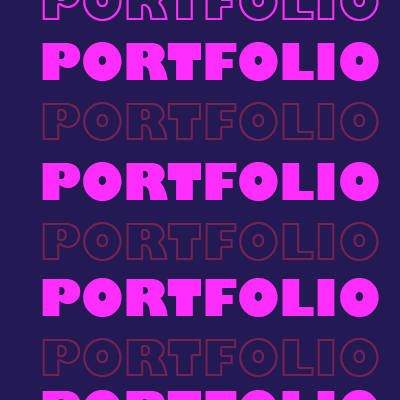
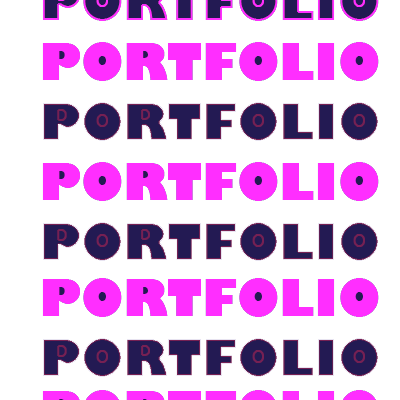
all fine : twitter:og fixed, contrast fixed > ready for upload:100%

diff --git a/public/about.html b/public/about.html
@@ -17,16 +17,20 @@
 
     <meta name="twitter:card" content="summary_large_image" />
     <meta name="twitter:creator" content="@stilkinging" />
-    <meta name="twitter:image:alt" content="a banner for Chukweubuka stanley" />
-    <meta name="twitter:image" content="https://chukwuebukastanley.com/assets/images/social media-bg.png">
+    <meta property="twitter:image" content="https://chukwuebukastanley.com/assets/images/socialmedia-banner.jpg" />
+    <!-- <meta name="twitter:image:alt" content="a banner for Chukweubuka stanley" /> -->
     <meta property="og:url" content="https://chukwuebukastanley.com/about" />
     <meta property="og:title" content="CHUKWUEBUKA STANLEY" />
     <meta property="og:description" content="more information about Ebuka and his interests " />
-    <meta property="og:image" content="https://chukwuebukastanley.com/assets/images/social media-bg.png" />
-    <meta property="og:image:width" content="1200" />
-    <meta property="og:image:height" content="630" />
+    <meta property="og:image" content="https://chukwuebukastanley.com/assets/images/socialmedia-banner.jpg" />
+    <meta property="og:image:width" content="400" />
+    <meta property="og:image:height" content="400" />
+    <!-- for twitter and whatsapp -->
+    <!-- <meta property="og:image" content="https://chukwuebukastanley.com/assets/images/social-media-bgx400.png" />
+    <meta property="og:image:width" content="400" />
+    <meta property="og:image:height" content="400" />  -->
   </head>
-  <body>
+  <body> 
     <nav class="navbar navbar-expand-lg navbar-light text-white mb-md-5 black-bg">
         <div class="container-fluid px-lg-5">
             <button class="navbar-toggler" type="button" data-bs-toggle="collapse" data-bs-target="#navbarSupportedContent" aria-controls="navbarSupportedContent" aria-expanded="false" aria-label="Toggle navigation">
@@ -36,7 +40,7 @@
               </button>
           <a class="navbar-brand text-white" href="./index.html"> Ebuka</a>
       
-          <div class="collapse navbar-collapse" id="navbarSupportedContent"  type="button" data-bs-toggle="collapse" data-bs-target="#navbarSupportedContent">
+          <div class="collapse navbar-collapse" id="navbarSupportedContent" >
             <ul class="navbar-nav ms-lg-auto mb-2 py-2 mb-lg-0">
               <li class="nav-item">
                 <a class="nav-link d-block h5" aria-current="page" href="./index.html">.Home</a>
@@ -55,7 +59,7 @@
         </div>
       </nav>
     <div class="jumbotron d-md-flex justify-content-between container align-items-center" >
-        <div class="about__image-prev position-relative order-md-2 text-center col-md-4 mb-5 mx-auto mb-md-0">
+        <div class="about__image-prev position-relative order-md-2 text-center col-md-4 my-3 mx-auto mb-md-0">
             <img src="./assets/images/mypicture.jpeg" class="d-block" alt=""  />
           </div>
       <div class="caption order-md-1 mx-auto px-2 mt-3 mt-md-0" >
@@ -63,7 +67,7 @@
         <p class="intro mx-1">
           Hi, my name is Azuka Chukwuebuka Stanley. <br>
           I am a full-stack Web developer with a degree in Industrial Mathematics, <br>
-          I am from Lagos, Nigeria. I listen to a lot of music; rap is my go to genre.
+          I am from Lagos, Nigeria. I listen to a lot of music; rap is my go-to genre.
           Football is my best sport - I like to play and watch. I run a little bit too, mostly on 
           weekends; it helps clear my head.
           <div class="contact mw-300 py-4 d-flex align-items-center justify-content-between">

diff --git a/public/index.html b/public/index.html
@@ -19,14 +19,19 @@
 
     <meta name="twitter:card" content="summary_large_image" />
     <meta name="twitter:creator" content="@stilkinging" />
+    <meta property="twitter:image" content="https://chukwuebukastanley.com/assets/images/socialmedia-banner.jpg" />
     <meta name="twitter:image:alt" content="a banner for Chukweubuka stanley" />
-    <meta name="twitter:image" content="https://chukwuebukastanley.com/assets/images/social media-bg.png">
     <meta property="og:url" content="https://chukwuebukastanley.com/" />
     <meta property="og:title" content="CHUKWUEBUKA STANLEY" />
     <meta property="og:description" content="A full-stack developer with a degree in Mathematics. visit my portfolio for my projects and information" />
-    <meta property="og:image" content="https://chukwuebukastanley.com/assets/images/social media-bg.png" />
-    <meta property="og:image:width" content="1200" />
-    <meta property="og:image:height" content="630" />
+    <meta property="og:image" content="https://chukwuebukastanley.com/assets/images/socialmedia-banner.jpg" />
+    <meta property="og:image:width" content="400" />
+    <meta property="og:image:height" content="400" />
+
+   <!-- for twitter and whatsapp -->
+   <!-- <meta property="og:image" content="https://chukwuebukastanley.com/assets/images/social-media-bgx400.png" />
+   <meta property="og:image:width" content="400" />
+   <meta property="og:image:height" content="400" /> -->
     <style>
       /* styles for preloader */
       /*! Generated by Font Squirrel (https://www.fontsquirrel.com) on July 9, 2022 */
@@ -331,7 +336,7 @@
         <!-- on touch it will give a subtle shadow, > maybe from bootstrap or from animista -->
         <div class="row px-3 gx-3">
            <div class="box  mx-auto col-12 row gy-4">
-            <img src="./assets/images/portfolio-cover.png" class="col-md-6 px-0 project-image " alt="picutre with words of Portfolio written" srcset="">
+            <img src="./assets/images/portfolio-cover.png" style="background-color: #231a53;" class="col-md-6 px-0 project-image " alt="picutre with words of Portfolio written" srcset="">
             <div class="col-md-6 proj__detail position-relative">
               <a href="https://alexjohnsonf.com/" target="_blank" class="text-decoration-none text-primary">
                 <h2 class="title text-center mb-sm-4  clickable">
@@ -427,7 +432,7 @@
             </div>
            </div>
            <div class="box  mx-auto col-12 row gy-4">
-            <img src="./assets/images/tsa-cover.png" style="background-color: #60945a;" class="col-md-6 px-0 project-image" alt="" srcset="">
+            <img src="./assets/images/tsa-cover.png" style="background-color: #14e785;" class="col-md-6 px-0 project-image" alt="" srcset="">
             <div class="col-md-6 proj__detail position-relative">
                 <h2 class="title text-center mb-sm-4  clickable">
                     TheSevenApex

diff --git a/public/assets/css/style.css b/public/assets/css/style.css
@@ -321,3 +321,6 @@ section {
   width: 100%;
   height: 100%;
 }
+.text-success {
+  color: #14e785!important;
+}
